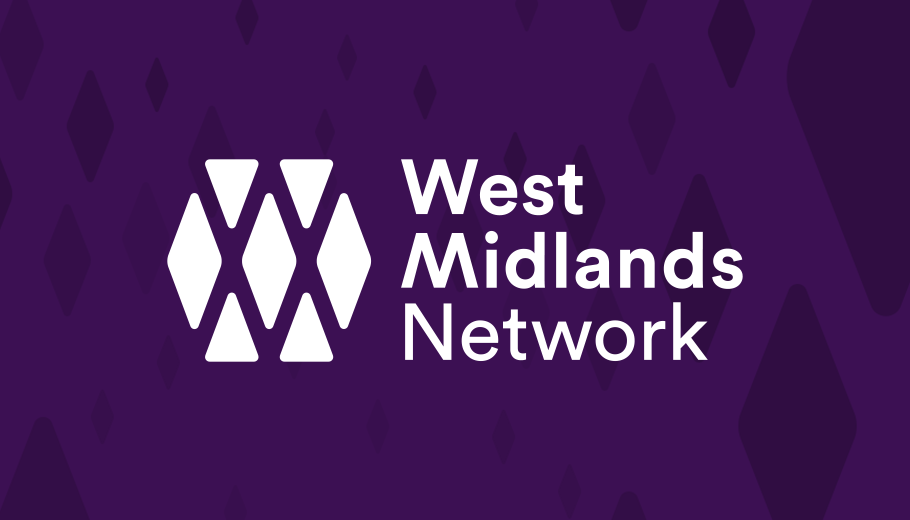
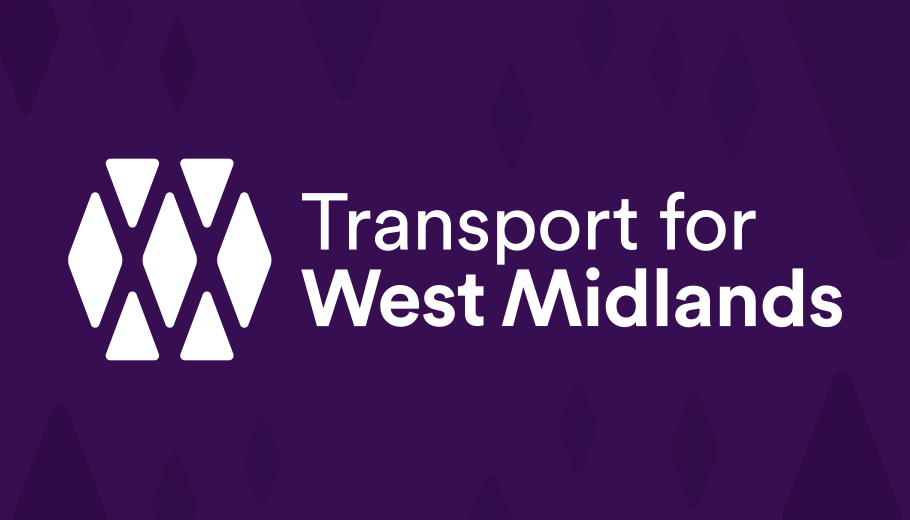
feat: Changes brand assets and brand references to Transport for West Midlands (#768)
* Fixes #767 - meta image to tfwm brand

* Adds icons to close #766

* Changes logo to TfWM #762

* Updates logo on header njk

* Revert "Updates logo on header njk"

This reverts commit c26214b16ffbd090d35555b5310dbae7b4604ef2.

* Revert "Revert "Updates logo on header njk""

This reverts commit e5526f46c81937299bfd802a317b7360abce96da.

* Makes logo slightly bigger to implement #762

* Search and replace for WMN to TfWM

* Changes WMN DS to TfWM DS

* Fixed typo in another file spotted by a bot

Changed region(s): [[0.0615, 0.2769, 0.9231, 0.7077]]

diff --git a/src/wmnds/patterns/header-v2/_header-v2.scss b/src/wmnds/patterns/header-v2/_header-v2.scss
@@ -87,8 +87,8 @@ $header-height-mobile: 4rem;
   }
 
   &__logo {
-    width: 88px;
-    max-width: 88px;
+    width: 120px;
+    max-width: 120px;
     height: 34px;
     float: left;
   }

diff --git a/src/www/pages/docs/get-started/production/index.njk.md b/src/www/pages/docs/get-started/production/index.njk.md
@@ -9,13 +9,13 @@
 
 ## About
 
-To start using our [styles](/styles/), [components](/components/) and [patterns](/patterns/) in your production project, you'll first need to include West Midlands Network Design System in your project.
+To start using our [styles](/styles/), [components](/components/) and [patterns](/patterns/) in your production project, you'll first need to include Transport for West Midlands Design System in your project.
 
 There are currently two ways of including the design system within your project. You can either install it using node package manager (npm) or include the compiled files in your application.
 
 ### Option 1: include compiled files (recommended)
 
-Getting started is as simple as including West Midlands Network Design System's minified CSS file and adding <code class="wmnds-website-inline-code">.wmnds-html</code> to the html element in your service/application:
+Getting started is as simple as including Transport for West Midlands Design System's minified CSS file and adding <code class="wmnds-website-inline-code">.wmnds-html</code> to the html element in your service/application:
 
 #### Quick setup
 
@@ -35,15 +35,15 @@ Getting started is as simple as including West Midlands Network Design System's 
      {%- endfilter %}
      </code></pre>
 
-2. Add <a href='/styles/icons/#using-icons' title='Documentation about using icons' target='_blank'>West Midlands Network Design System icons</a> to your project.
+2. Add <a href='/styles/icons/#using-icons' title='Documentation about using icons' target='_blank'>Transport for West Midlands Design System icons</a> to your project.
 
 #### Start developing
 
-You should now be able to include West Midlands Network Design System components and patterns using the design system documentation. Expand the HTML markup tabs on each page to see [how to include that component/pattern to your project](/docs/get-started/using-the-design-system/).
+You should now be able to include Transport for West Midlands Design System components and patterns using the design system documentation. Expand the HTML markup tabs on each page to see [how to include that component/pattern to your project](/docs/get-started/using-the-design-system/).
 
 ### Option 2: install using npm
 
-West Midlands Network Design System is available on npm as <a href="https://www.npmjs.com/package/wmn-design-system" target="_blank" rel="noopener noreferrer" class="wmnds-link">wmn-design-system</a>. This package contains all of West Midlands Network Design System [styles](/styles/), [components](/components/) or [patterns](/patterns/) and documentation.
+Transport for West Midlands Design System is available on npm as <a href="https://www.npmjs.com/package/wmn-design-system" target="_blank" rel="noopener noreferrer" class="wmnds-link">wmn-design-system</a>. This package contains all of Transport for West Midlands Design System [styles](/styles/), [components](/components/) or [patterns](/patterns/) and documentation.
 
 #### Add design system package to your project
 
@@ -62,7 +62,7 @@ West Midlands Network Design System is available on npm as <a href="https://www.
 
 #### Setup CSS
 
-1. Add the following to the main Sass file in your project, so that your compiler adds all of West Midlands Network Design System's styles to your compiled CSS file.
+1. Add the following to the main Sass file in your project, so that your compiler adds all of Transport for West Midlands Design System's styles to your compiled CSS file.
 
    <pre><code class="scss wmnds-show-more-ignore" tabindex="0">@import "node_modules/wmn-design-system/src/wmnds/sass/wmnds.scss</code></pre>
 
@@ -77,7 +77,7 @@ West Midlands Network Design System is available on npm as <a href="https://www.
 
 #### Start developing
 
-You should now be able to include West Midlands Network Design System components and patterns using the design system documentation. Expand the nunjucks markup and properties tabs on each page to see [how to include that component/pattern to your project](/docs/get-started/using-the-design-system/).
+You should now be able to include Transport for West Midlands Design System components and patterns using the design system documentation. Expand the nunjucks markup and properties tabs on each page to see [how to include that component/pattern to your project](/docs/get-started/using-the-design-system/).
 
 {% endmarkdown %}
 

diff --git a/src/www/pages/patterns/journey-planner-widget/index.njk.md b/src/www/pages/patterns/journey-planner-widget/index.njk.md
@@ -1,32 +1,35 @@
-{% extends "www/_layouts/layout-left-pane.njk" %} 
+{% extends "www/_layouts/layout-left-pane.njk" %}
 {% set pageTitle = "Journey planner widget" %}
 
 {% set section="Patterns" %}
 {% from "www/_partials/component-example/component-example.njk" import compExample %}
 {% from "wmnds/patterns/journey-planner-widget/_journey-planner-widget.njk" import wmndsJourneyPlannerWidget %}
 
-
 {% block content %}
 
 {% markdown %}
 
-  ## What does it do?
-  * For users to quickly access journey information from any page of the West Midlands Network website
-  * This widget directs users to the full journey planner service from the right sidebar of a page
+## What does it do?
 
-  ## When to use it?
-  * When the content on a page is related to West Midlands Network travel modes or travel information
+- For users to quickly access journey information from any page of the Transport for West Midlands website
+- This widget directs users to the full journey planner service from the right sidebar of a page
 
-  ## How it works?
-  * The widget is collapsed by default, showing only the ‘From’ field. The widget expands to show the full journey information when the user selects the ‘From’ field
-  * A complete list of the train stations in the West Midlands Network will automatically appear when the user selects the ’From’ or ‘To’ field. Users can also use their current location to automatically choose their departure or arrival location
-  * The ‘From’ and ’To’ fields can be switched at any time through the Switch button
-  * Users can choose a specific transport mode as well as change their departure or arrival time
-  * The ‘Mobility and advanced search’ link will direct users to the journey planner service where they can enter advanced filters
-  * The ‘Plan my journey’ [Call to action button](https://designsystem.wmnetwork.co.uk/components/buttons/) will send users to the full journey planner service with information on their selected journey
+## When to use it?
 
-  ### Collapsed
-  This is the default widget view
+- When the content on a page is related to Transport for West Midlands travel modes or travel information
+
+## How it works?
+
+- The widget is collapsed by default, showing only the ‘From’ field. The widget expands to show the full journey information when the user selects the ‘From’ field
+- A complete list of the train stations in the Transport for West Midlands will automatically appear when the user selects the ’From’ or ‘To’ field. Users can also use their current location to automatically choose their departure or arrival location
+- The ‘From’ and ’To’ fields can be switched at any time through the Switch button
+- Users can choose a specific transport mode as well as change their departure or arrival time
+- The ‘Mobility and advanced search’ link will direct users to the journey planner service where they can enter advanced filters
+- The ‘Plan my journey’ [Call to action button](https://designsystem.wmnetwork.co.uk/components/buttons/) will send users to the full journey planner service with information on their selected journey
+
+### Collapsed
+
+This is the default widget view
 
 {% endmarkdown %}
 
@@ -41,12 +44,13 @@
       iframe: false
     }
   )
-}} 
+}}
 
 {% markdown %}
 
-  ### Expanded
-  When a user selects the ‘From’ field, the full journey details are expanded
+### Expanded
+
+When a user selects the ‘From’ field, the full journey details are expanded
 
 {% endmarkdown %}
 
@@ -65,15 +69,13 @@
   )
 }}
 
-
-
 {% markdown %}
 
-  ### Change departure or arrival time
-  Users can manually change the departure or arrival time of their journey
+### Change departure or arrival time
+
+Users can manually change the departure or arrival time of their journey
 
 {% endmarkdown %}
-
 
 {{
   compExample([
@@ -91,11 +93,11 @@
   )
 }}
 
-
 {% markdown %}
 
-  ### Transport mode
-  Specific transport mode(s) can be chosen by the user to filter their journey
+### Transport mode
+
+Specific transport mode(s) can be chosen by the user to filter their journey
 
 {% endmarkdown %}
 
@@ -116,10 +118,10 @@
 }}
 
 {% markdown %}
-  ## Anything else
-  [Zeplin link](https://zpl.io/V1EwnoZ)
+
+## Anything else
+
+[Zeplin link](https://zpl.io/V1EwnoZ)
 {% endmarkdown %}
-
-
 
 {% endblock %}

diff --git a/src/www/pages/docs/releases/index.njk.md b/src/www/pages/docs/releases/index.njk.md
@@ -9,20 +9,20 @@
 
 ## About
 
-West Midlands Network Design System follows <a href="http://semver.org/" target="_blank" rel="noopener noreferrer" class="wmnds-link">Semantic Versioning</a> and stores all versions of the design system on <a href="https://github.com/wmcadigital/wmn-design-system/releases" target="_blank" rel="noopener noreferrer" class="wmnds-link">Github</a> and <a href="https://www.npmjs.com/package/wmn-design-system" target="_blank" rel="noopener noreferrer" class="wmnds-link">NPM</a>.
+Transport for West Midlands Design System follows <a href="http://semver.org/" target="_blank" rel="noopener noreferrer" class="wmnds-link">Semantic Versioning</a> and stores all versions of the design system on <a href="https://github.com/wmcadigital/wmn-design-system/releases" target="_blank" rel="noopener noreferrer" class="wmnds-link">Github</a> and <a href="https://www.npmjs.com/package/wmn-design-system" target="_blank" rel="noopener noreferrer" class="wmnds-link">NPM</a>.
 
-Using this method of versioning enables West Midlands Network Design System to release new versions without breaking any projects dependant on previous releases.
+Using this method of versioning enables Transport for West Midlands Design System to release new versions without breaking any projects dependant on previous releases.
 
 This method also allows you to upgrade your project to the latest version of the design system when you are able to.
 
 ## Accessing a previous releases
 
-It is recommended that you use the latest release of West Midlands Network Design System in your project. This guide explains how to access a previous release for older documentation.
+It is recommended that you use the latest release of Transport for West Midlands Design System in your project. This guide explains how to access a previous release for older documentation.
 
 1. Install <a href="https://nodejs.org/en/" target="_blank" rel="noopener noreferrer" class="wmnds-link">Node.js</a>
    If you have not already installed version 4.2.0 or later of Node.js, install the latest Long Term Support(LTS) version.
 
-2. Visit <a href="https://github.com/wmcadigital/wmn-design-system/releases" target="_blank" rel="noopener noreferrer" class="wmnds-link">West Midlands Network Design System releases</a> for previous releases. This log includes a list of bug fixes, new features, as well as any breaking changes.
+2. Visit <a href="https://github.com/wmcadigital/wmn-design-system/releases" target="_blank" rel="noopener noreferrer" class="wmnds-link">Transport for West Midlands Design System releases</a> for previous releases. This log includes a list of bug fixes, new features, as well as any breaking changes.
 
 3. Click the link of the version number (prefixed with "v", for example <a href="https://github.com/wmcadigital/wmn-design-system/releases/tag/v1.1.0" target="_blank" rel="noopener noreferrer" class="wmnds-link">v1.1.0</a>).
 
@@ -34,7 +34,7 @@ It is recommended that you use the latest release of West Midlands Network Desig
 6. When the installation finishes in step 5. In your terminal, run:
    <pre><code class="bash wmnds-show-more-ignore" tabindex="0">npm start</code></pre>
 
-   This will launch a local webserver. When ready, your default web browser will automatically open with your selected release of the West Midlands Network Design System.
+   This will launch a local webserver. When ready, your default web browser will automatically open with your selected release of the Transport for West Midlands Design System.
 
    You can now browse the documentation for your selected release.
 

diff --git a/src/www/pages/docs/get-started/prototype-kit/index.njk.md b/src/www/pages/docs/get-started/prototype-kit/index.njk.md
@@ -9,17 +9,17 @@
 
 ## About
 
-The <a href="https://github.com/wmcadigital/wmn-prototype-kit" target="_blank" rel="noopener noreferrer" class="wmnds-link">West Midlands Network Protype Kit</a> provides a simple way to make interactive prototypes that look and feel like pages on West Midlands Network. These prototypes can be used to design and lay out pages, and for use in user research.
+The <a href="https://github.com/wmcadigital/wmn-prototype-kit" target="_blank" rel="noopener noreferrer" class="wmnds-link">Transport for West Midlands Protype Kit</a> provides a simple way to make interactive prototypes that look and feel like pages on Transport for West Midlands. These prototypes can be used to design and lay out pages, and for use in user research.
 
-This guide explains how to create dynamic prototypes using the West Midlands Network Design System and the <a href="https://github.com/wmcadigital/wmn-prototype-kit" target="_blank" rel="noopener noreferrer" class="wmnds-link">West Midlands Network Protype Kit</a>.
+This guide explains how to create dynamic prototypes using the Transport for West Midlands Design System and the <a href="https://github.com/wmcadigital/wmn-prototype-kit" target="_blank" rel="noopener noreferrer" class="wmnds-link">Transport for West Midlands Protype Kit</a>.
 
 ## Before you start
 
-To make prototypes you will need to make sure you have installed <a href="https://nodejs.org/en/" target="_blank" rel="noopener noreferrer" class="wmnds-link">Node.js</a> and <a href="https://git-scm.com/" target="_blank" rel="noopener noreferrer" class="wmnds-link">Git</a>. When installed, please follow the guide on how to install and use the <a href="https://github.com/wmcadigital/wmn-prototype-kit" target="_blank" rel="noopener noreferrer" class="wmnds-link">West Midlands Network Protype Kit</a>.
+To make prototypes you will need to make sure you have installed <a href="https://nodejs.org/en/" target="_blank" rel="noopener noreferrer" class="wmnds-link">Node.js</a> and <a href="https://git-scm.com/" target="_blank" rel="noopener noreferrer" class="wmnds-link">Git</a>. When installed, please follow the guide on how to install and use the <a href="https://github.com/wmcadigital/wmn-prototype-kit" target="_blank" rel="noopener noreferrer" class="wmnds-link">Transport for West Midlands Protype Kit</a>.
 
 ## Start using the design system
 
-When you have installed the <a href="https://github.com/wmcadigital/wmn-prototype-kit" target="_blank" rel="noopener noreferrer" class="wmnds-link">West Midlands Network Protype Kit</a> you can start using the West Midlands Network Design System. See [using the design system](../using-the-design-system/).
+When you have installed the <a href="https://github.com/wmcadigital/wmn-prototype-kit" target="_blank" rel="noopener noreferrer" class="wmnds-link">Transport for West Midlands Protype Kit</a> you can start using the Transport for West Midlands Design System. See [using the design system](../using-the-design-system/).
 
 {% endmarkdown %}
 

diff --git a/src/www/pages/styles/layout/index.njk.md b/src/www/pages/styles/layout/index.njk.md
@@ -23,7 +23,7 @@
 
 ### Guidance for content editors
 
-- Only use a header image when there is a clear user need for the image and it serves a purpose. For example, on a 'Travel by tram' page, you may want to use a header image of a tram so users unfamiliar with the West Midlands Network will instantly know what our trams look like throughout the region.
+- Only use a header image when there is a clear user need for the image and it serves a purpose. For example, on a 'Travel by tram' page, you may want to use a header image of a tram so users unfamiliar with the Transport for West Midlands will instantly know what our trams look like throughout the region.
 - Use the [Link component](/components/links/) in your body content if you want to direct the user to additional content. Do not use buttons for any links. Do not use the same link twice as this confuses users.
 - Only use [buttons](/components/buttons/) in your body content when a user needs to complete an action as part of a process, or if a user is confirming their details e.g. newsletter sign-up.
 
@@ -55,7 +55,7 @@
 
 ### What does it do?
 
-- A template for the different travel modes which West Midlands Network offers
+- A template for the different travel modes which Transport for West Midlands offers
 - The template layout has been designed to showcase each of our travel mode brands
 
 ### When to use it?
@@ -64,13 +64,13 @@
 
 ### When not to use it?
 
-- For modes of travel which are not operated by West Midlands Network, such as E-scooters
+- For modes of travel which are not operated by Transport for West Midlands, such as E-scooters
 
 ### Guidance for content editors
 
 - Each landing page heading should follow the same title structure: '[transport mode] in the West Midlands'
-- Use an attractive header image that focuses on the mode of transport. Do not use a busy image. This will help users who are unfamiliar with the West Midlands Network to know what out transport looks like across the region.
-- The appropriate modal icon and West Midlands Network logo variant should be used for each travel landing page
+- Use an attractive header image that focuses on the mode of transport. Do not use a busy image. This will help users who are unfamiliar with the Transport for West Midlands to know what out transport looks like across the region.
+- The appropriate modal icon and Transport for West Midlands logo variant should be used for each travel landing page
 - Where content cards are used, the coloured line should be changed from primary purple to the appropriate travel mode brand colour
 
 ## Creating effective content

diff --git a/src/www/pages/docs/get-started/index.njk.md b/src/www/pages/docs/get-started/index.njk.md
@@ -5,7 +5,7 @@
 
 {% block content %}
 {% markdown %}
-The West Midlands Network Design System provides a collection of reusable HTML components to build custom services and experiences that adhere to West Midlands Network's design standards.
+The Transport for West Midlands Design System provides a collection of reusable HTML components to build custom services and experiences that adhere to Transport for West Midlands's design standards.
 
 There are many different ways to get started with our design system. It all depends on your project's needs and whether you are developing, designing or somewhere in the middle.
 
@@ -18,9 +18,9 @@ There are many different ways to get started with our design system. It all depe
 
 ## Using styles, components and patterns
 
-When something is published in the West Midlands Network design system as a [style](/styles/), [component](/components/) or [pattern](/patterns/) we include details of what it is, how to use it, and when to use it based on our [user research](/user-research/). This should help you decide whether it’s something you can use or adapt for your service.
+When something is published in the Transport for West Midlands design system as a [style](/styles/), [component](/components/) or [pattern](/patterns/) we include details of what it is, how to use it, and when to use it based on our [user research](/user-research/). This should help you decide whether it’s something you can use or adapt for your service.
 
-The guide, [using the design system](using-the-design-system/) contains more information on how to use the West Midlands Network Design System.
+The guide, [using the design system](using-the-design-system/) contains more information on how to use the Transport for West Midlands Design System.
 
 ## Before making a service live
 

diff --git a/README.md b/README.md
@@ -26,14 +26,14 @@
 
 ## 1.2. Overview
 
-Welcome to the [West Midlands Network Design System](https://wmnetwork.netlify.com/).
+Welcome to the [Transport for West Midlands Design System](https://wmnetwork.netlify.com/).
 
 The WMN design system is ran at the designated url on startup (usually [http://localhost:3000](http://localhost:3000)) and is the primary means of viewing your work - it will live update as you make changes.
 
-- Tailored for building West Midlands Network apps and websites: Using the WMN Design System markup and CSS framework results in UIs that reflect the West Midlands Network look and feel.
-- Continuously updated: As long as you're using the latest version of the WMN Design System, your pages are always up to date with West Midlands Network UI changes.
+- Tailored for building Transport for West Midlands apps and websites: Using the WMN Design System markup and CSS framework results in UIs that reflect the Transport for West Midlands look and feel.
+- Continuously updated: As long as you're using the latest version of the WMN Design System, your pages are always up to date with Transport for West Midlands UI changes.
 
-<img src ="doc/preview.png" height="500" width="auto" alt="West Midlands Network design system example">
+<img src ="doc/preview.png" height="500" width="auto" alt="Transport for West Midlands design system example">
 
 ## 1.3. Quick start
 

diff --git a/.github/ISSUE_TEMPLATE/feature_proposal.md b/.github/ISSUE_TEMPLATE/feature_proposal.md
@@ -1,10 +1,9 @@
 ---
 name: Propose something new
-about: Propose a style, component or pattern for the West Midlands Network Design System
+about: Propose a style, component or pattern for the Transport for West Midlands Design System
 title: ''
 labels: 'feature_request'
 assignees: 'mrmjprice,KaterinaKir'
-
 ---
 
 <!--
@@ -12,16 +11,19 @@ If you need help putting your proposal together, you can message Design Team usi
 -->
 
 ## What
+
 > Give a brief description of the style, component or pattern you want to propose.
 
 ## Why
-> Explain why you think this should be added to the West Midlands Network Design System (WMN DS).
+
+> Explain why you think this should be added to the Transport for West Midlands Design System (TfWM DS).
 >
 > - What evidence do you have that it's needed by multiple services across government?
 > - What evidence do you have that it meets the needs of the users of those services?
-> - Have you checked that it doesn't already exist in the WMN DS? 
+> - Have you checked that it doesn't already exist in the TfWM DS?
 
 ## Anything else
+
 > Include links to any examples, research or code to support your proposal, if available.
 
 <!--

diff --git a/src/www/pages/patterns/banner/index.njk.md b/src/www/pages/patterns/banner/index.njk.md
@@ -146,14 +146,14 @@
 
 <h3>When not to use it?</h3>
 
-- On pages where the mode of travel is not operated by West Midlands Network, such as E-scooters
+- On pages where the mode of travel is not operated by Transport for West Midlands, such as E-scooters
 
 <h3>How it works</h3>
 
 - The image container width will expand if users are viewing the page with a browser width higher than 1280px.
 - The image within the container will zoom to fill the size of the image container.
 - The image will be hidden on mobile devices. Our previous research found mobile users do not see the value of images on mobile pages.
-- The image, modal icon and the West Midlands Network logo variant will change for each travel mode landing page.
+- The image, modal icon and the Transport for West Midlands logo variant will change for each travel mode landing page.
 
 {% endmarkdown %}
 

diff --git a/src/www/pages/docs/get-started/mobile-application/index.njk.md b/src/www/pages/docs/get-started/mobile-application/index.njk.md
@@ -9,7 +9,7 @@
 
 ## About
 
-West Midlands Network Design System currently supports one method of including styles within your mobile application.
+Transport for West Midlands Design System currently supports one method of including styles within your mobile application.
 
 ### Developing an app for mobile devices - React Native
 
@@ -22,7 +22,7 @@ import wmndsStyles from "https://unpkg.com/wmn-design-system@$*version/build/css
 {%- endfilter -%}
 </code></pre>
 
-When you have added the code to your project, you can start using the West Midlands Network Design System. See [using the design system](../using-the-design-system/).
+When you have added the code to your project, you can start using the Transport for West Midlands Design System. See [using the design system](../using-the-design-system/).
 
 {% endmarkdown %}
 

diff --git a/doc/contributing/versioning.md b/doc/contributing/versioning.md
@@ -1,6 +1,6 @@
 # 1. Versioning
 
-The process of versioning The West Midlands Network Design System is automated via GitHub Actions, mainly through the use of [semantic-release](https://github.com/semantic-release/semantic-release).
+The process of versioning The Transport for West Midlands Design System is automated via GitHub Actions, mainly through the use of [semantic-release](https://github.com/semantic-release/semantic-release).
 
 The Design System is [available on Node Package Manager](https://www.npmjs.com/package/wmn-design-system) (npm) for download for node based projects. You can also view the website for a given version of the [Design System on UNPKG](https://unpkg.com/wmn-design-system@1.0.0/build/index.html).
 
